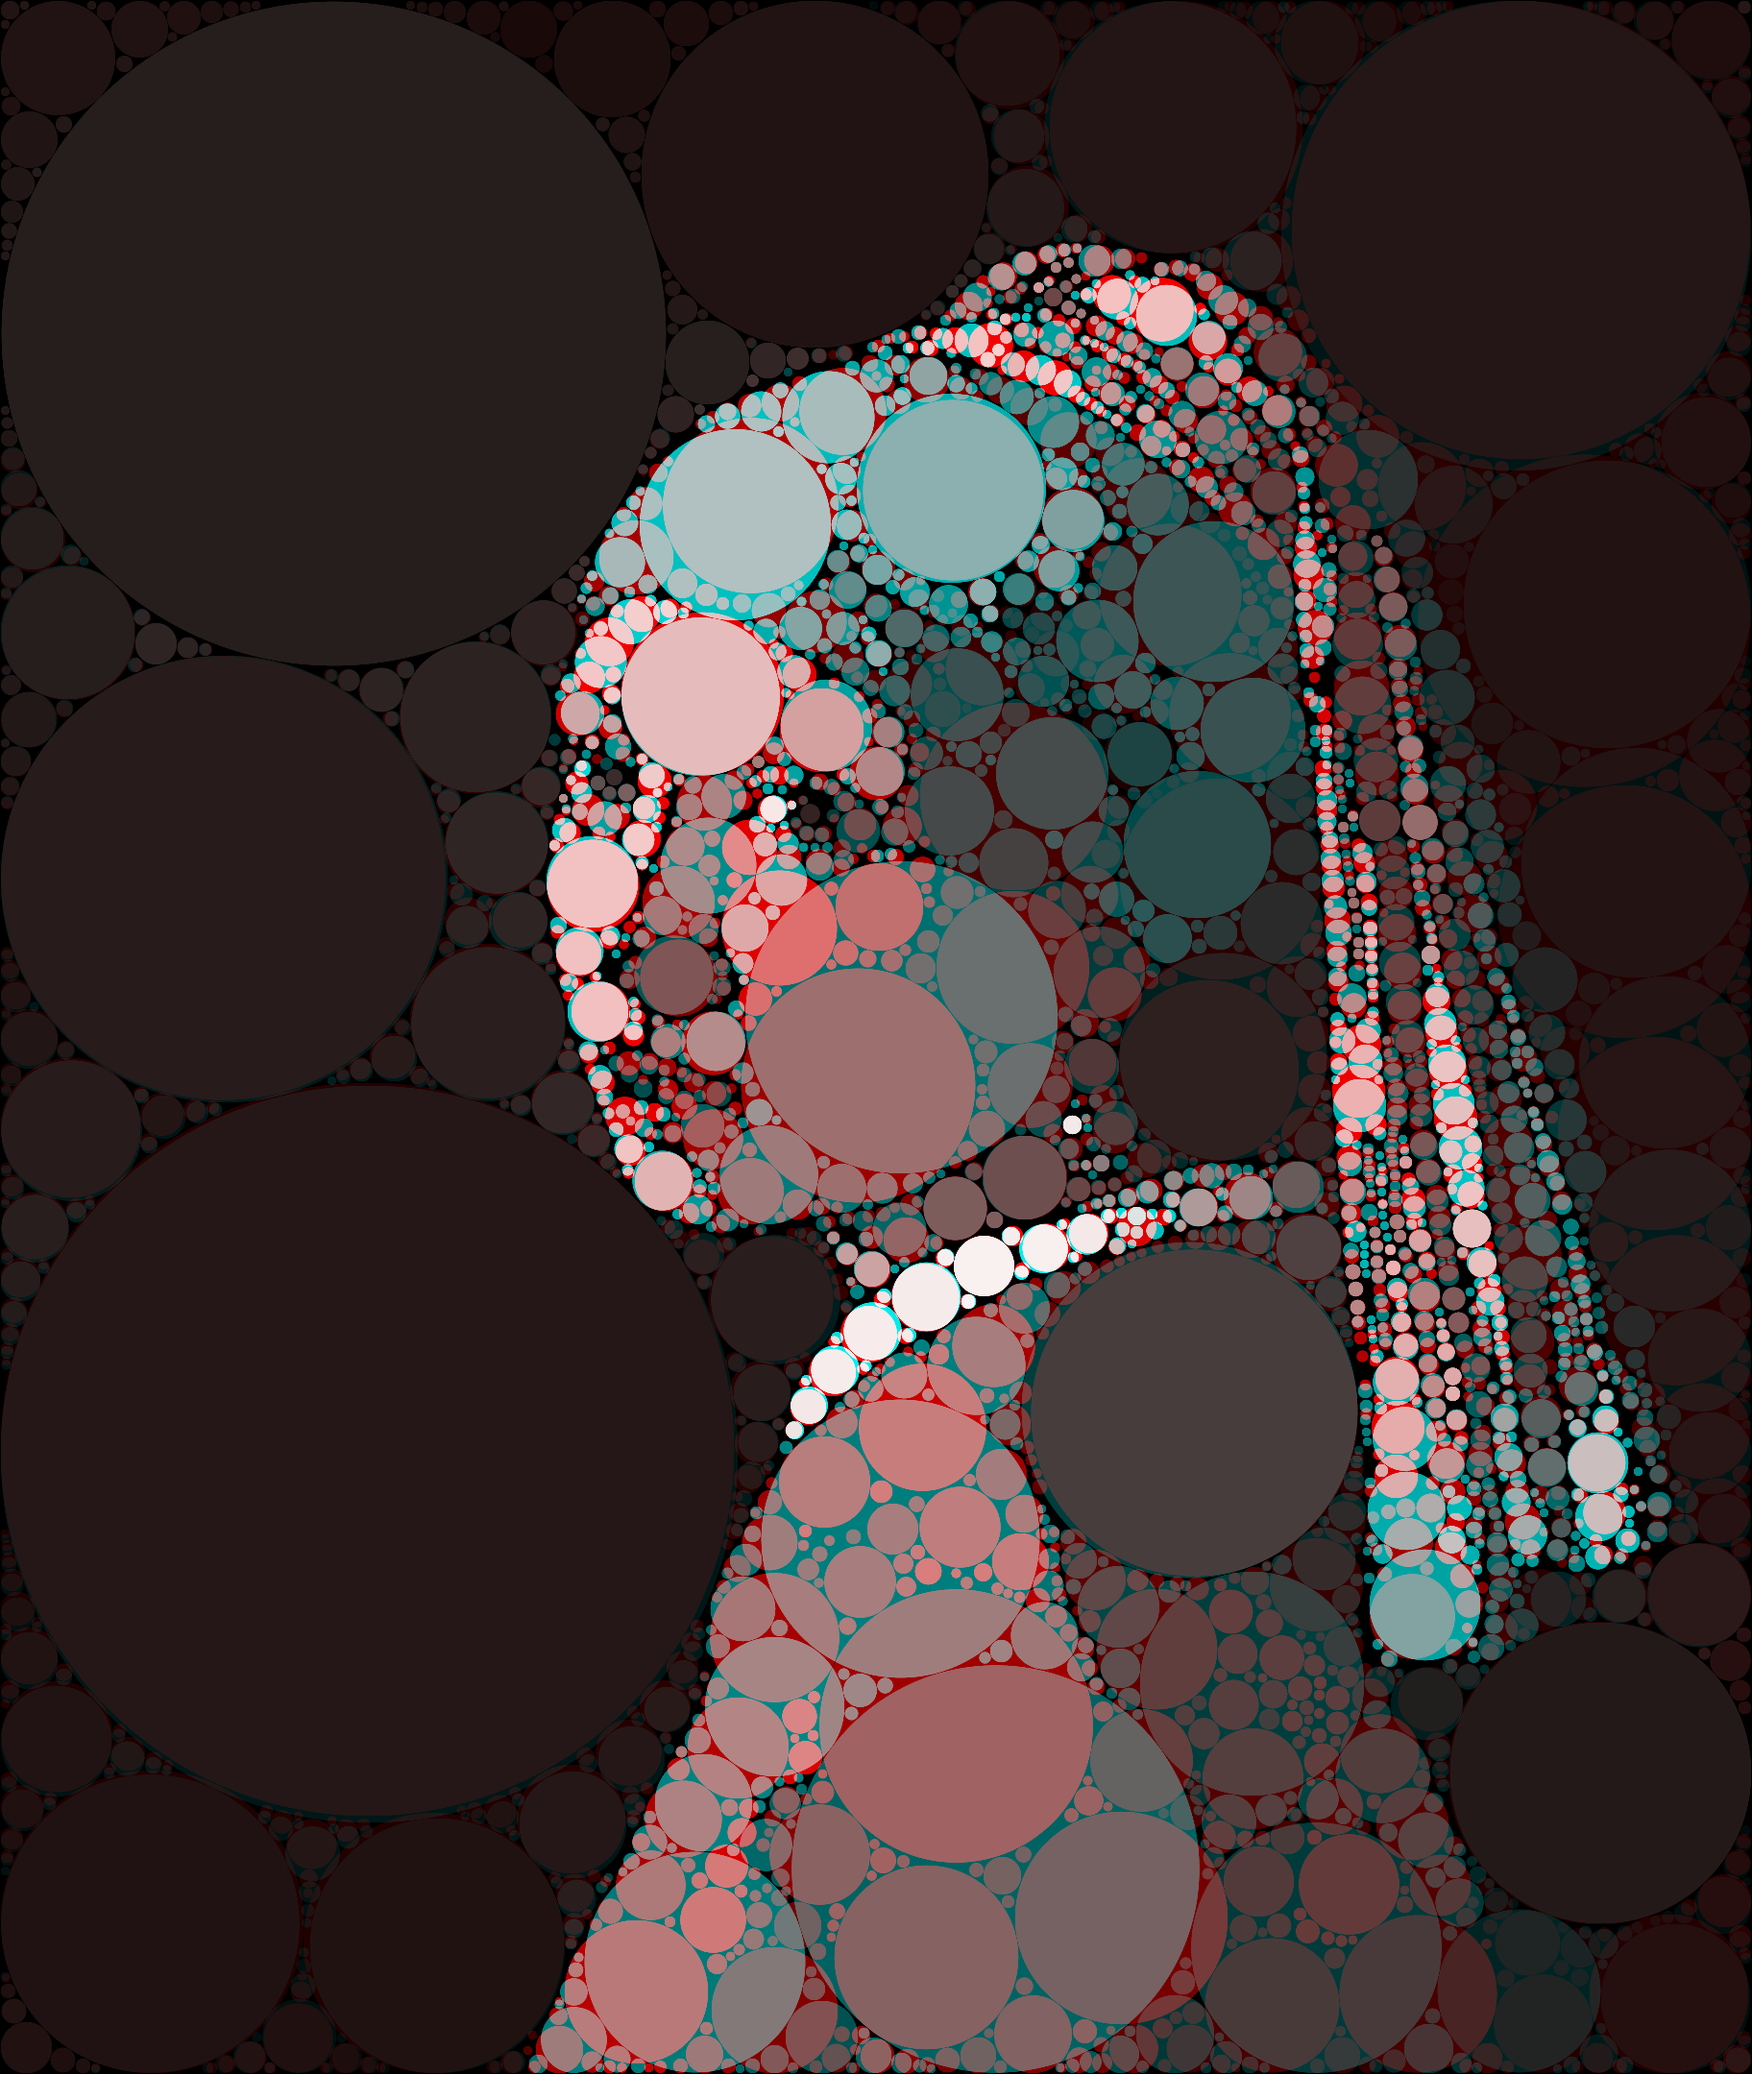
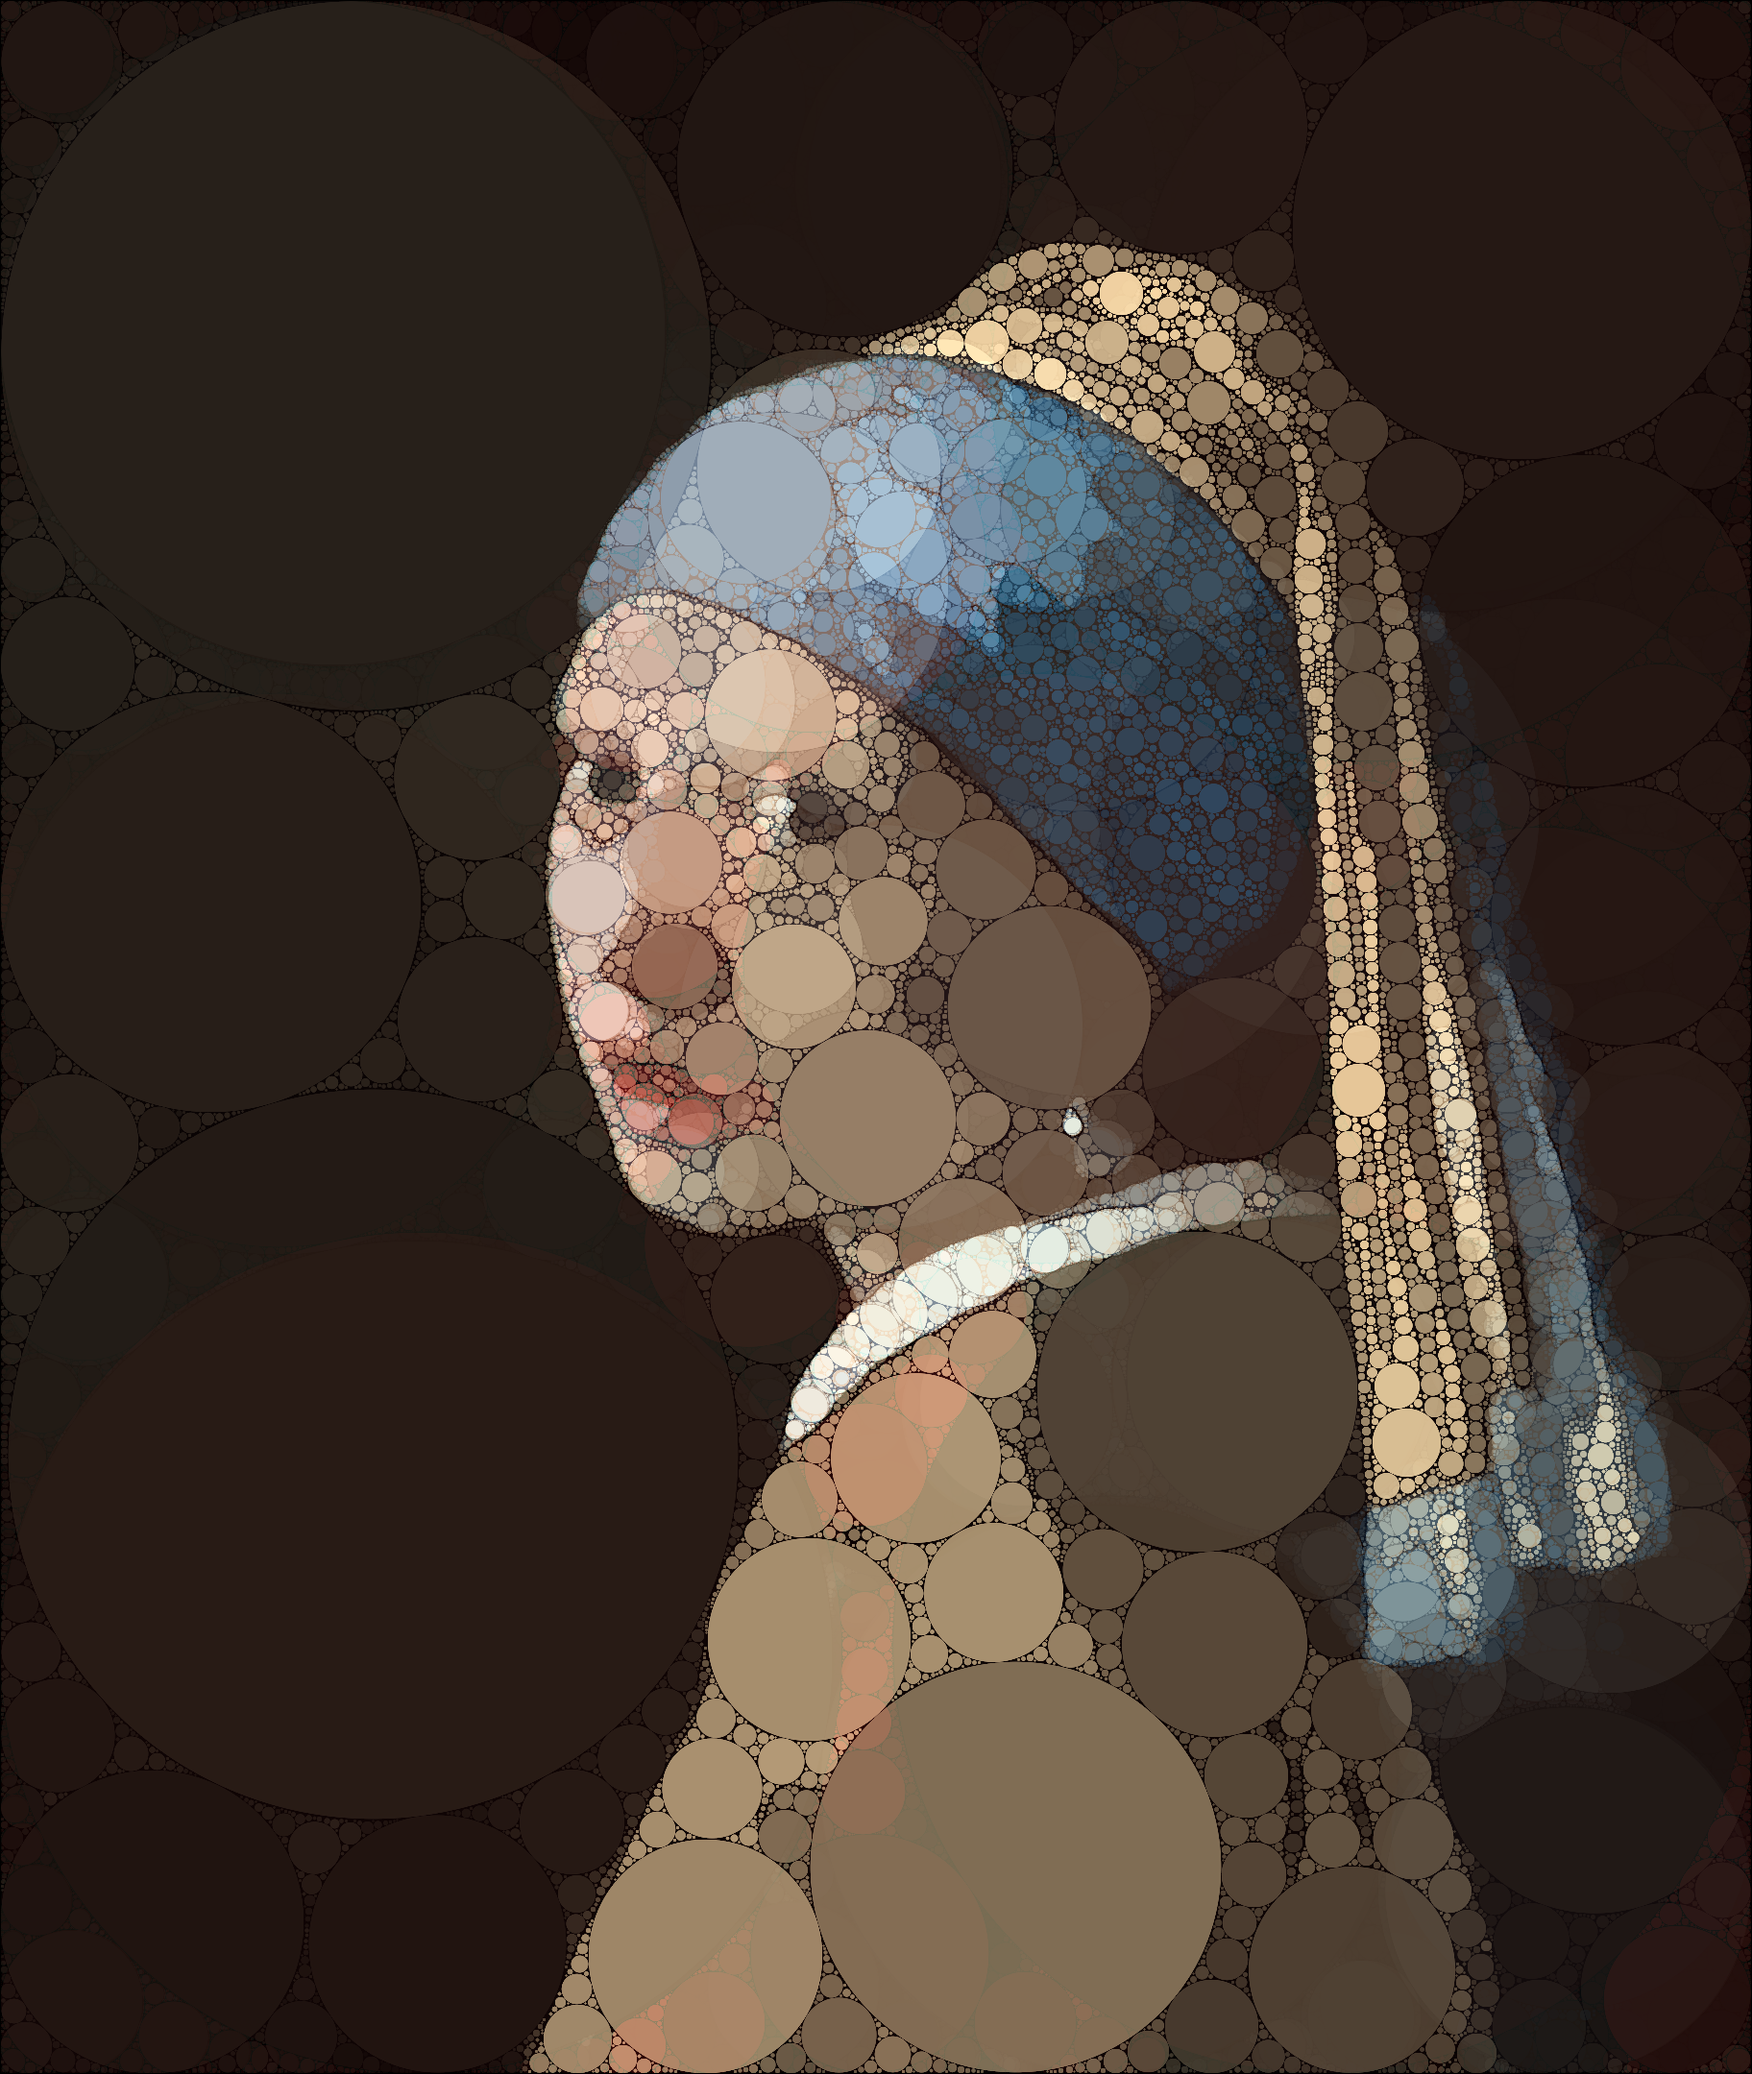
Ran code using Obama HOPE poster colors

diff --git a/im2circles.m b/im2circles.m
@@ -4,18 +4,19 @@ clear; close;
 
 im = imread('PearlEarring.jpg');
 im = im2double(im);
-im = medfilt3(im,[7,7,1],'symmetric');
-im = imresize(im,2.28);
 
 %% Convert Color Space
 
-custom = [1 0 0; 0 1 1];
+custom = [0 48 80; 112 150 160;176 183 167;250 227 173;218 20 21]';
+custom = custom / 255;
 out = rgb2custom(im,custom,2048);
+out = medfilt3(out,[7,7,1],'symmetric');
+out = imresize(out,2.28);
 
 %% Create Edge Map
 
 % Find edges
-edges = edge(out(:,:),'canny',0.0875);
+edges = edge(out(:,:),'canny',0.1);
 edges = reshape(edges,size(out));
 
 % Pad edge map borders
@@ -35,7 +36,7 @@ circles = zeros(size(out));
 radius = max(dist1,[],[1,2],'linear');
 [x,y] = meshgrid(1:size(out,2),1:size(out,1),1:size(out,3));
 
-while mean2(radius) >= 5
+while mean2(radius) >= 1
     
     [radius,C] = max(dist1,[],[1 2],'linear');
     mask = (y - y(C)).^2 + (x - x(C)).^2;
@@ -48,12 +49,12 @@ while mean2(radius) >= 5
     
 end
 
-RGB = zeros(size(im));
-im2 = zeros(size(im));
+RGB = zeros([size(out,1,2) 3]);
+im2 = zeros([size(out,1,2) 3]);
 for i = 1:size(circles,3)
-    RGB = RGB + sqrt(circles(:,:,i)) .* reshape(custom(i,:),[1 1 3]);
-    im2 = im2 + out(:,:,i) .* reshape(custom(i,:),[1 1 3]);
+    RGB = RGB + sqrt(circles(:,:,i)) .* reshape(custom(:,i),[1 1 3]);
+    im2 = im2 + out(:,:,i) .* reshape(custom(:,i),[1 1 3]);
 end
 
-imwrite(RGB,'pearlCircles4.png','png')
+imwrite(RGB,'pearlCircles5.png','png')
 imshow(RGB)

diff --git a/rgb2custom.m b/rgb2custom.m
@@ -8,8 +8,8 @@ function out = rgb2custom(im,custom,num)
 % Create the RGB colormap
 [idx,cmap] = rgb2ind(im,num);
 
-cvar = optimvar('cvar',size(custom,1),size(cmap,1),'LowerBound',0,'UpperBound',1);
-obj = sum((custom' * cvar - cmap').^2,'all');
+cvar = optimvar('cvar',size(custom,2),size(cmap,1),'LowerBound',0,'UpperBound',1);
+obj = sum((custom * cvar - cmap').^2,'all');
 prob = optimproblem('Objective',obj);
 sol = solve(prob);
 
